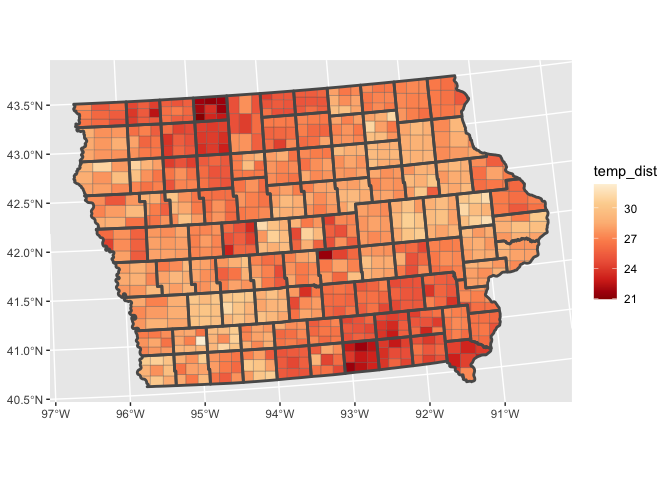
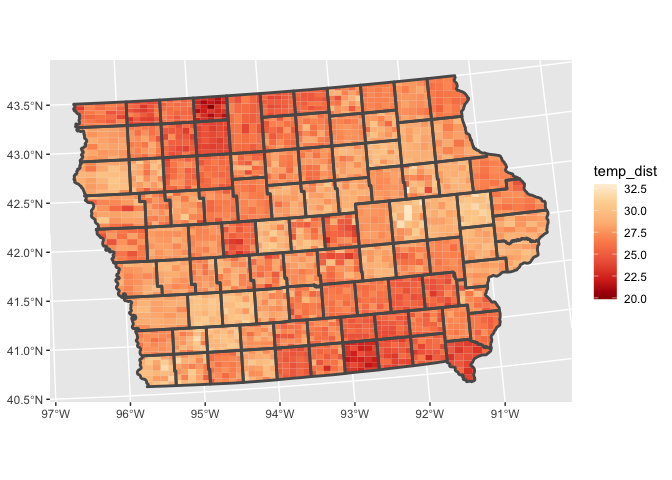
Updated readme to include geom_point()

Changed region(s): [[0.0938, 0.1562, 0.8125, 0.8125], [0.9062, 0.375, 0.9688, 0.625]]

diff --git a/README.md b/README.md
@@ -16,14 +16,33 @@ differentiates itself by viewing an uncertainty visualisation as a
 transformation of an existing graphic that incorperates uncertainty. The
 package allows you to replace any existing variable of observations in a
 graphic, with a variable of distributons. It is particularly useful for
-visualisations of estimates, such as a mean. You provide ggdibble with
-code for an existing plot, but repalace one of the variables with a
-distribution, and it will convert the visualisation into it’s signal
-supression counterpart.
+visualisations of estimates.
+
+You provide `ggdibbler` with code for an existing plot, but repalace one
+of the variables with a distribution, and it will convert the
+visualisation into it’s signal supression counterpart.
+
+### Future additions to the package
+
+The eventual goal of `ggdibbler` is to allows any distribution object to
+be passed to any aesthetic in a `ggplot2` geom (so long as I have gotten
+to that geom). The status of this goal is regularly updated in the [All
+Geometries - Status
+List](https://github.com/harriet-mason/ggdibbler/issues/28) issue.
+
+I am happy to expedite any specific geoms that you might want, just post
+a request in a github issue.
 
 ## Installation
 
-You can install the development version of ggdibbler from
+You can install the stable version of `ggdibbler` from CRAN with:
+
+``` r
+# install.packages("pak")
+install.packages("ggdibbler")
+```
+
+or you can install the development version of ggdibbler from
 [GitHub](https://github.com/) with:
 
 ``` r
@@ -33,14 +52,18 @@ pak::pak("harriet-mason/ggdibbler")
 
 ## Examples
 
-Currently, the primary useage of ggdibbler is a variation on `geom_sf`,
-by having several alternatives to the standard fill.
+For a proper discussion of how to use `distributional` and `ggdibbler`
+to incorporate uncertainty into your plots, feel free to check out the
+vignette. For the short version, you can just replace the `geom_*` with
+`geom_*_sample` and replace a variable that was once values with
+distributions.
 
 ``` r
-library(ggdibbler)
-library(ggplot2)
+library(distributional)
 library(dplyr)
 library(sf)
+library(ggplot2)
+library(ggdibbler)
 ```
 
 Typically, if we had an average estimate for a series of areas, we would
@@ -62,25 +85,55 @@ ggplot(toy_temp_mean) +
 <img src="man/figures/README-unnamed-chunk-3-1.png" width="100%" />
 
 We can use `geom_sf_sample` from the ggdibbler package to instead view
-each estimate as a sample of values from its sampling distribution.
+each estimate as a sample of values from its sampling distribution. If
+you want to see the original geometry lines, I would recommend layering
+a `geom_sf` with NA fill over the top.
 
 ``` r
 set.seed(1)
 # sample map
 toy_temp_dist |> 
   ggplot() + 
-  geom_sf_sample(aes(geometry = county_geometry, fill=temp_dist), linewidth=0.1) + 
+  geom_sf_sample(aes(geometry = county_geometry, fill=temp_dist), linewidth=0) + 
   geom_sf(aes(geometry = county_geometry), fill=NA, linewidth=1) +
   scale_fill_distiller(palette = "OrRd")
 ```
 
 <img src="man/figures/README-unnamed-chunk-4-1.png" width="100%" />
 
-## Additions to the package
+Currently `geom_sf` only accepts a random fill, as it subdivides the
+geometry to fill it with a sample. This will eventually be extended to
+all the `geom_sf` aesthetics. Other `geoms`, such as `geom_point_sample`
+do accept random variables to any `aes`. You can feed any combination of
+random and deterministic variables to a `geom_*_sample` layer.
 
-As `ggdibbler` is designed to alter existing graphic types to accept
-distributions as inputs there is a near infinite number of plots that
-could be changed with the package. At the moment the focus is on
-alterations to `geom_sf`, but we are happy to add any other
-functionality that users would like to have as a ggplot geom. If you
-have a suggestion, feel free to add it in the github issues.
+``` r
+point_data <- data.frame(deterministic_x = c(1,2,3),
+                         uncertain_y = c(dist_gamma(2,1),
+                                      dist_sample(x = list(rnorm(100, 5, 1))),
+                                      dist_exponential(1)),
+                         uncertain_class = dist_categorical(prob = list(c(0.8,0.15,0.05),
+                                                                      c(0.25,0.7,0.05),
+                                                                      c(0.25,0,0.75)),
+                                                          outcomes = list(c("A", "B", "C"))))
+# A geom_point with random varianles
+ggplot() + 
+  geom_point_sample(data = point_data, 
+                    aes(x=deterministic_x, y=uncertain_y, colour = uncertain_class))
+```
+
+<img src="man/figures/README-unnamed-chunk-5-1.png" width="100%" />
+
+If you pass random variables to aesthetics like colour or label, but not
+position aesthetics such as x or y, you might want to add a jitter so
+that you can see all the points (otherwise you will only see one outcome
+of the sample).
+
+``` r
+ggplot() + 
+  geom_point_sample(data = point_data, 
+                    aes(x=deterministic_x, y=deterministic_x, colour = uncertain_class),
+                    position = position_jitter(width=0.1, height=0.1))
+```
+
+<img src="man/figures/README-unnamed-chunk-6-1.png" width="100%" />
